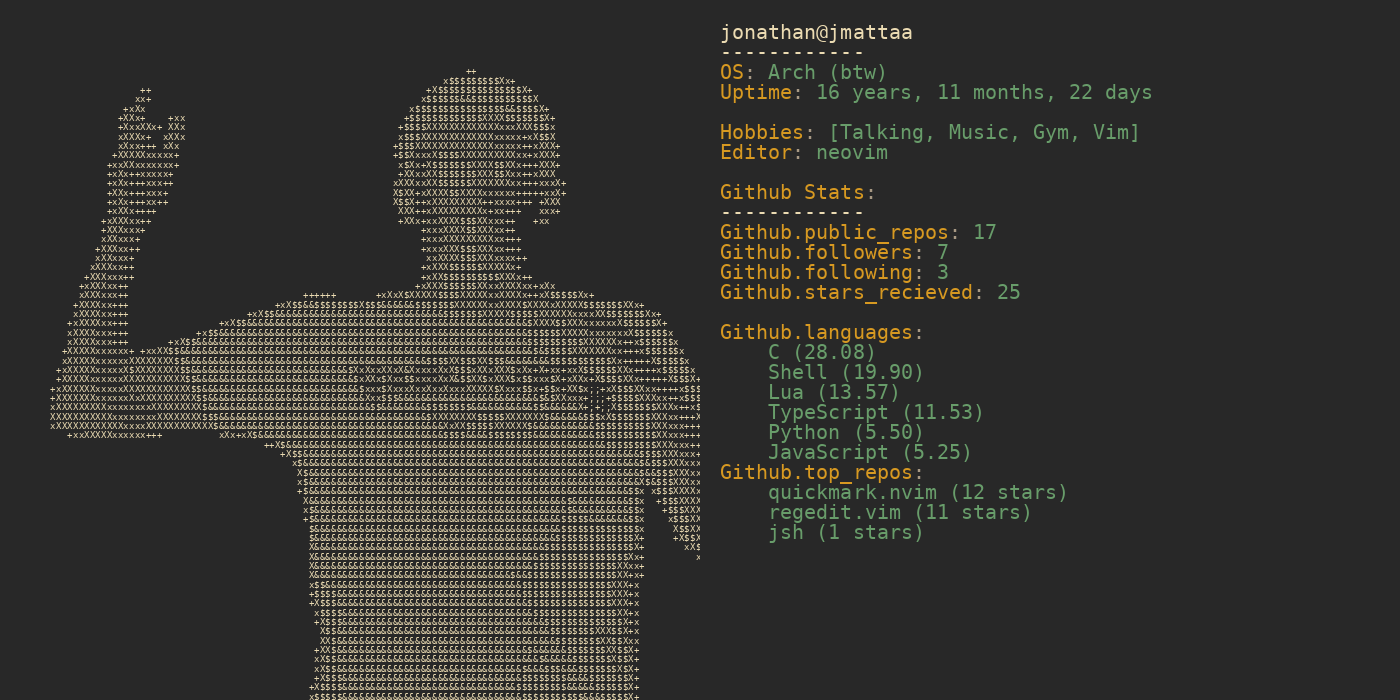
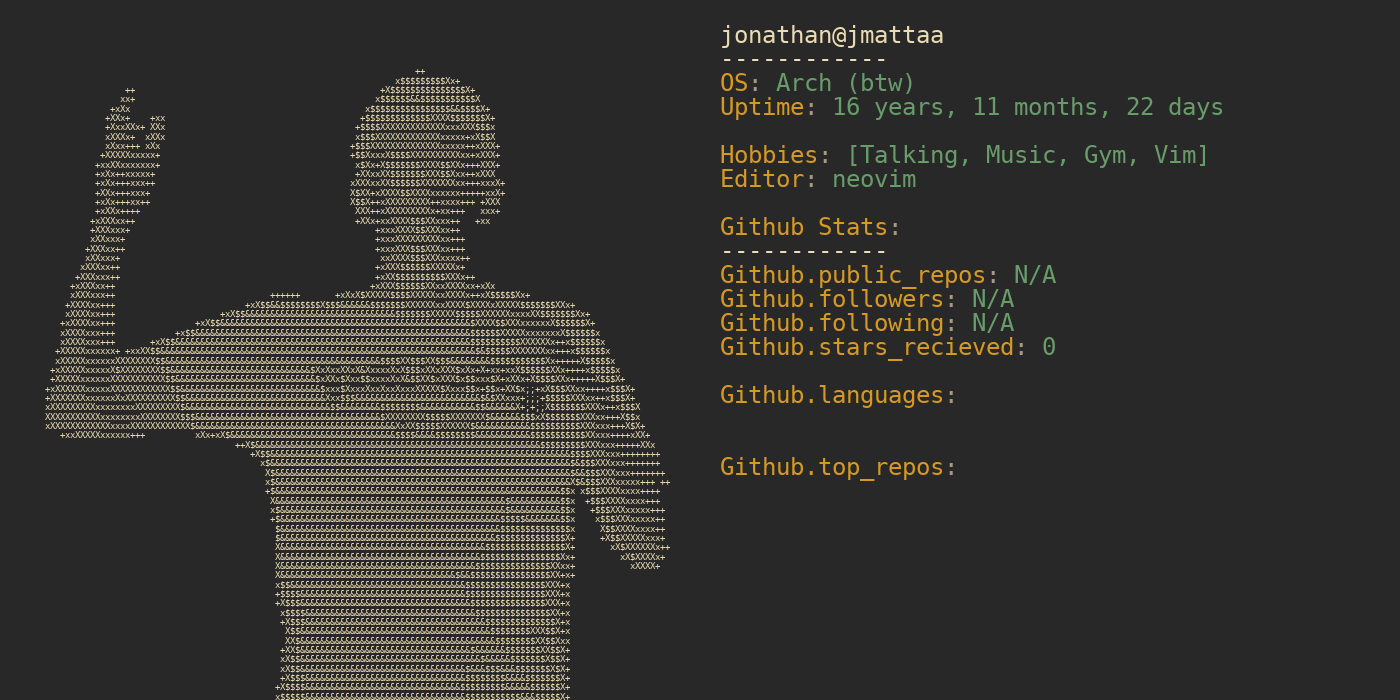
update main font

Changed region(s): [[0.0307, 0.03, 0.86, 1.0]]

diff --git a/main.py b/main.py
@@ -105,7 +105,7 @@ def create_image_with_stats(ascii_art_filename, username):
     img_width = 1400
     img_height = 700 
     ascii_font_size = 9.3333333333 # it's 150 chars wide do some math
-    stats_font_size = 20   # Larger font size for GitHub stats
+    stats_font_size = 24 
     ascii_art_width = img_width // 2
     font_path = "./res/DejaVuSansMono.ttf"
 
